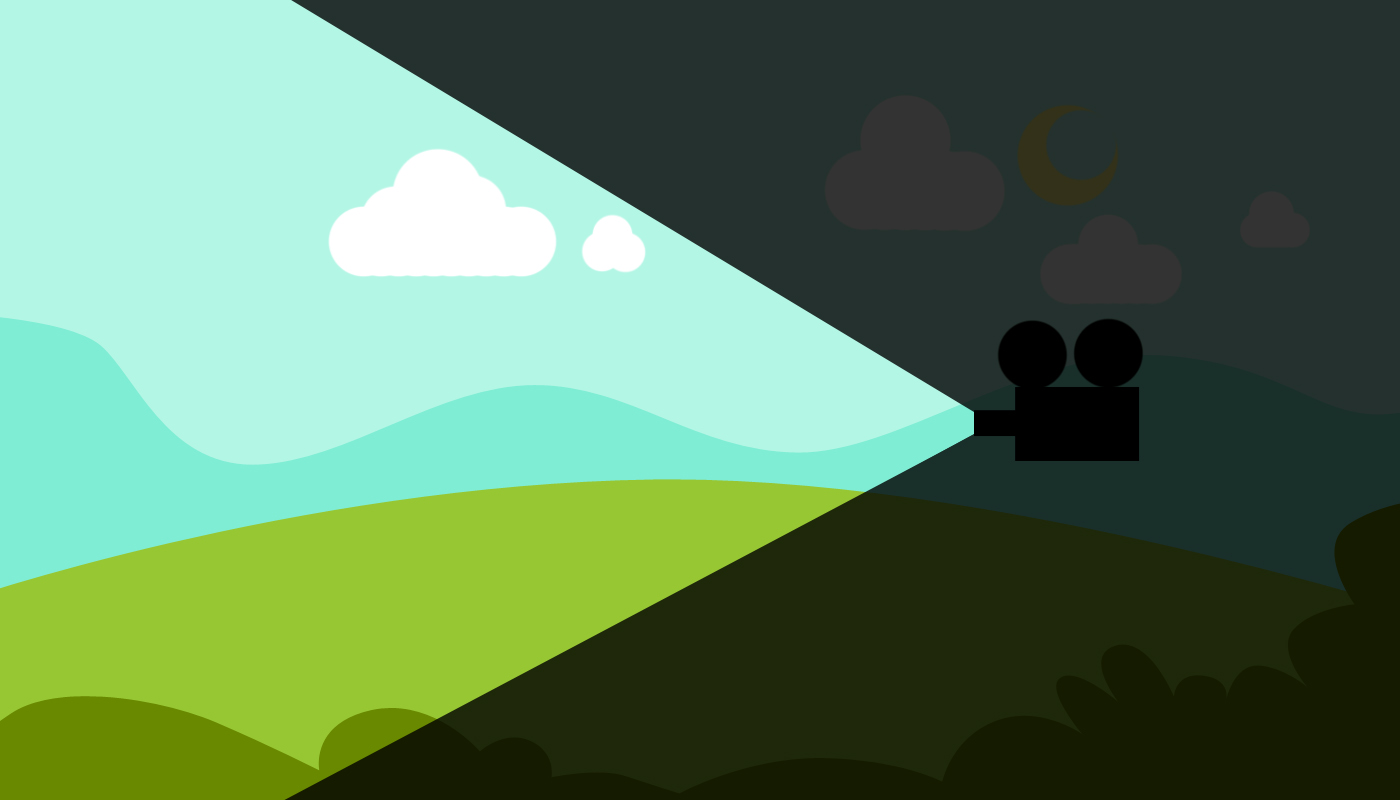
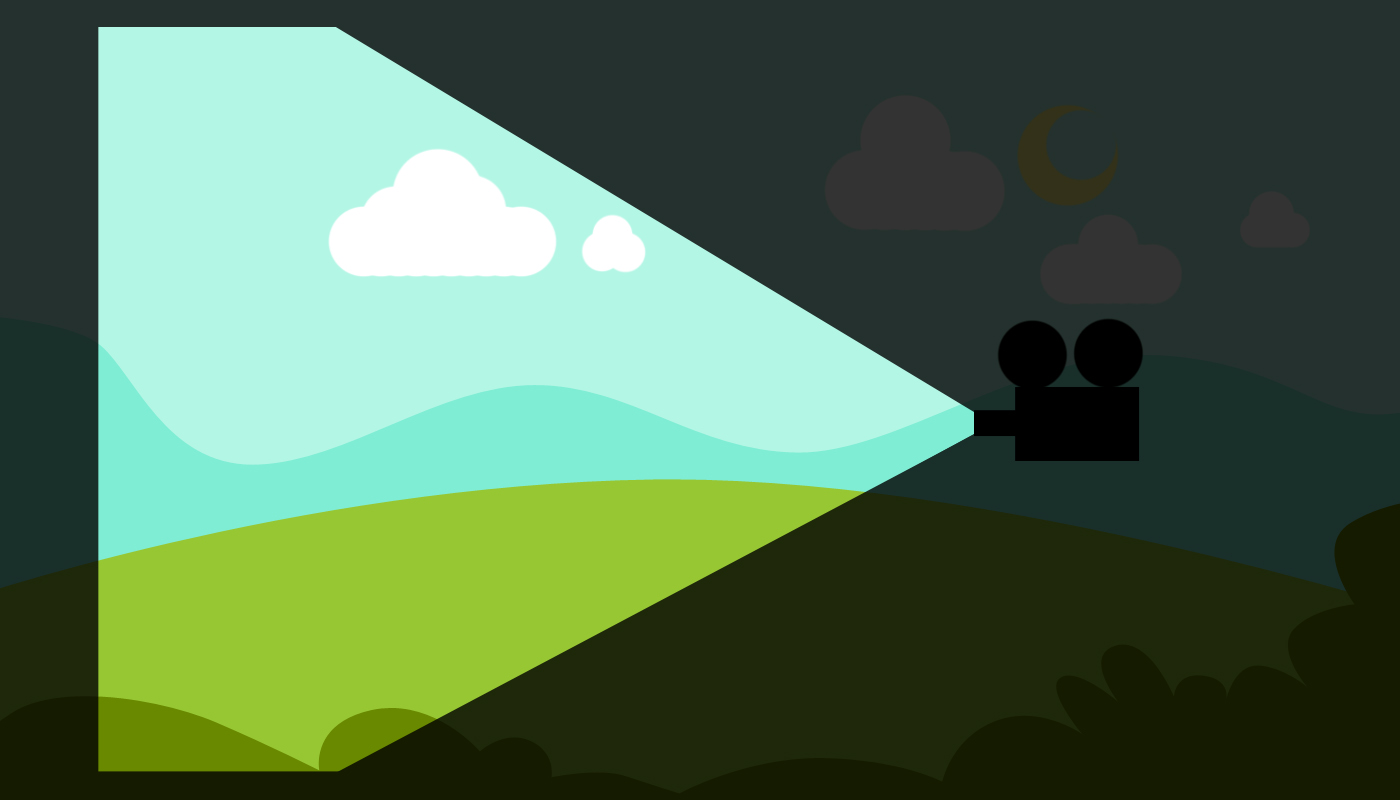
added top bar

Changed region(s): [[0.0, 0.0, 0.2457, 1.0]]

diff --git a/index.html b/index.html
@@ -10,26 +10,35 @@
     </head>
     <body>
     	<div id="bg">
-	    	<div id="title">
-	    		<form>
-		    		<label for="textAnimalName">Add an Animal</label>
-		    		<input type="text" id="textAnimalName">
-		    		<input type="submit" id="addBtn" value="submit">
-		    	</form>
-		    	<div id="animalBtns"></div>
+	    	<div id="titleBar">
+	    		<div id="logoDiv">
+	    			<img id="logoImg" src="assets/images/logo.png">
+	    		</div>
+	    		<div id="formDiv">
+		    		<form>
+			    		<label for="textAnimalName">Add an Animal</label>
+			    		<input type="text" id="textAnimalName">
+			    		<input type="submit" id="addBtn" value="submit">
+			    	</form>
+			    	<div id="animalBtns"></div>
+		    	</div>
 	    	</div>
-
-
+			<br><br><br>
 			<div id="bgImg">
 			<br>
-		    	<div id="animalResult"></div>
+		    	<div id="gifResult"></div>
 			</div>
 		</div>
 
 		<script>
 			var buttons = ["cat", "dog", "bird"];
+			var cameraIsOn = false;
 
 			$("#addBtn").on("click", function(event){
+				// if (cameraIsOn === false){
+				// 	console.log("change bgImg to light");
+				// 	$("#bgImg").css("background-image", "url('../images/bgLight.jpg')");
+				// }
 				console.log("submit btn clicked");
 				event.preventDefault();
 				var animalName = $("#textAnimalName").val();
@@ -48,18 +57,20 @@
 				}
 			}
 
-			$(document).on("click", ".btn", displayRequest);
+			// $(document).on("click", ".btn", function(){
+			// 	renderRequest();
+			// });
+			$(document).on("click", ".btn", renderRequest);
 
-			// $(".btn").on("click", function(){
-			// 	console.log("animal btn clicked");
-			// 	displayRequest();
-			// })
+			// function anotherOne(){
+			// 	console.log("another function");
+			// }
 
 			
 
-			function displayRequest(){
-				console.log("displaying request");
-				$("#animalResult").empty();
+			function renderRequest(){
+				console.log("rendering request");
+				$("#gifResult").empty();
 
 				var animal = $(this).text();
 				var queryURL = "https://api.giphy.com/v1/gifs/search";
@@ -88,7 +99,7 @@
 						newImg.addClass("gif");
 
 						newDiv.append(newImg);
-						$("#animalResult").append(newDiv);
+						$("#gifResult").append(newDiv);
 					}
 				});
 			}

diff --git a/assets/css/style.css b/assets/css/style.css
@@ -1,16 +1,17 @@
 #bg{
 	width: 100%;
+	height: 900px;
 	background-color: black;
 }
 #bgImg{
-	background-image: url("../images/bg.jpg");
+	background-image: url("../images/bgDark.jpg");
 	background-repeat: no-repeat;
 	width: 1400px;
 	height: 800px;
 	margin: 0 auto;
 }
 
-#animalResult{
+#gifResult{
 	background-image: url("../images/film.jpg");
 	background-repeat: repeat-y;
 	text-align: center;
@@ -21,4 +22,29 @@
 }
 .gif{
 	margin: 10px 0;
+}
+#logoDiv{
+	width: 360px;
+	float: left;
+}
+#logoImg{
+	border-right: 2px dashed #9b9b9b;
+	margin: 10px 20px 0 10px;
+	padding-right: 18px;
+}
+#titleBar{
+	width: 100%;
+	background-color: #222222;
+	position: fixed;
+	top: 0px;
+}
+label{
+	color: white;
+}
+.btn{
+	margin: 5px;
+}
+form{
+	border-top: 1px hidden;
+	padding-top: 5px;
 }
